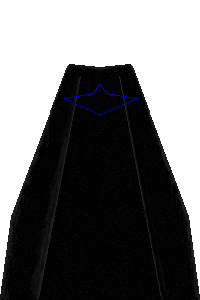
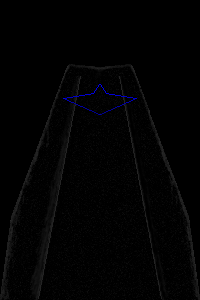
Fixed the image display problems mostly

diff --git a/game/glFunctions/textureLoading.c b/game/glFunctions/textureLoading.c
@@ -99,8 +99,8 @@ void getAllImageFiles(char* directory){
         }else{
             glBindTexture(GL_TEXTURE_2D, glTextureLocations[numLoadedImages]);
             // TODO Set up the texturing parameters a bit more
-            glTexParameteri(GL_TEXTURE_2D, GL_TEXTURE_WRAP_S, GL_REPEAT);	
-            glTexParameteri(GL_TEXTURE_2D, GL_TEXTURE_WRAP_T, GL_REPEAT);
+            glTexParameteri(GL_TEXTURE_2D, GL_TEXTURE_WRAP_S, GL_CLAMP_TO_EDGE);
+            glTexParameteri(GL_TEXTURE_2D, GL_TEXTURE_WRAP_T, GL_CLAMP_TO_EDGE);
             glTexParameteri(GL_TEXTURE_2D, GL_TEXTURE_MIN_FILTER, GL_LINEAR);
             glTexParameteri(GL_TEXTURE_2D, GL_TEXTURE_MAG_FILTER, GL_LINEAR);
             numLoadedImages++;

diff --git a/game/glFunctions/init.c b/game/glFunctions/init.c
@@ -196,12 +196,13 @@ void bindVAO(struct renderData* data, GLuint vao, GLuint program){
     // Enabling the vertex attribute in the vertex shader
     glEnableVertexArrayAttrib(vao, 0);
 
+
     // Loading the texture coords into a buffer
     glNamedBufferData(buffers[1], sizeof(data->texCoords), data->texCoords, GL_STATIC_DRAW);
 
     // Bind the buffer to the VAO to use as texture coords
     glVertexArrayVertexBuffer(vao, 1, buffers[1], 0, sizeof(float) * 2);
-    glVertexArrayAttribBinding(vao, 1, 0);
+    glVertexArrayAttribBinding(vao, 1, 1);
 
     // Telling OpenGL the format of our buffer
     glVertexArrayAttribFormat(vao, 1, 2, GL_FLOAT, GL_FALSE, 0);

diff --git a/game/glFunctions/renderObjects/rectangle.c b/game/glFunctions/renderObjects/rectangle.c
@@ -7,7 +7,7 @@
 static float points[6][3] = {
     {-0.5f, -0.5f, 0.0f},
     {0.5f, -0.5f, 0.0f},
-    {-0.5, 0.5f, 0.0f},
+    {-0.5f, 0.5f, 0.0f},
     {0.5f, -0.5f, 0.0f},
     {0.5f, 0.5f, 0.0f},
     {-0.5f, 0.5f, 0.0f}
